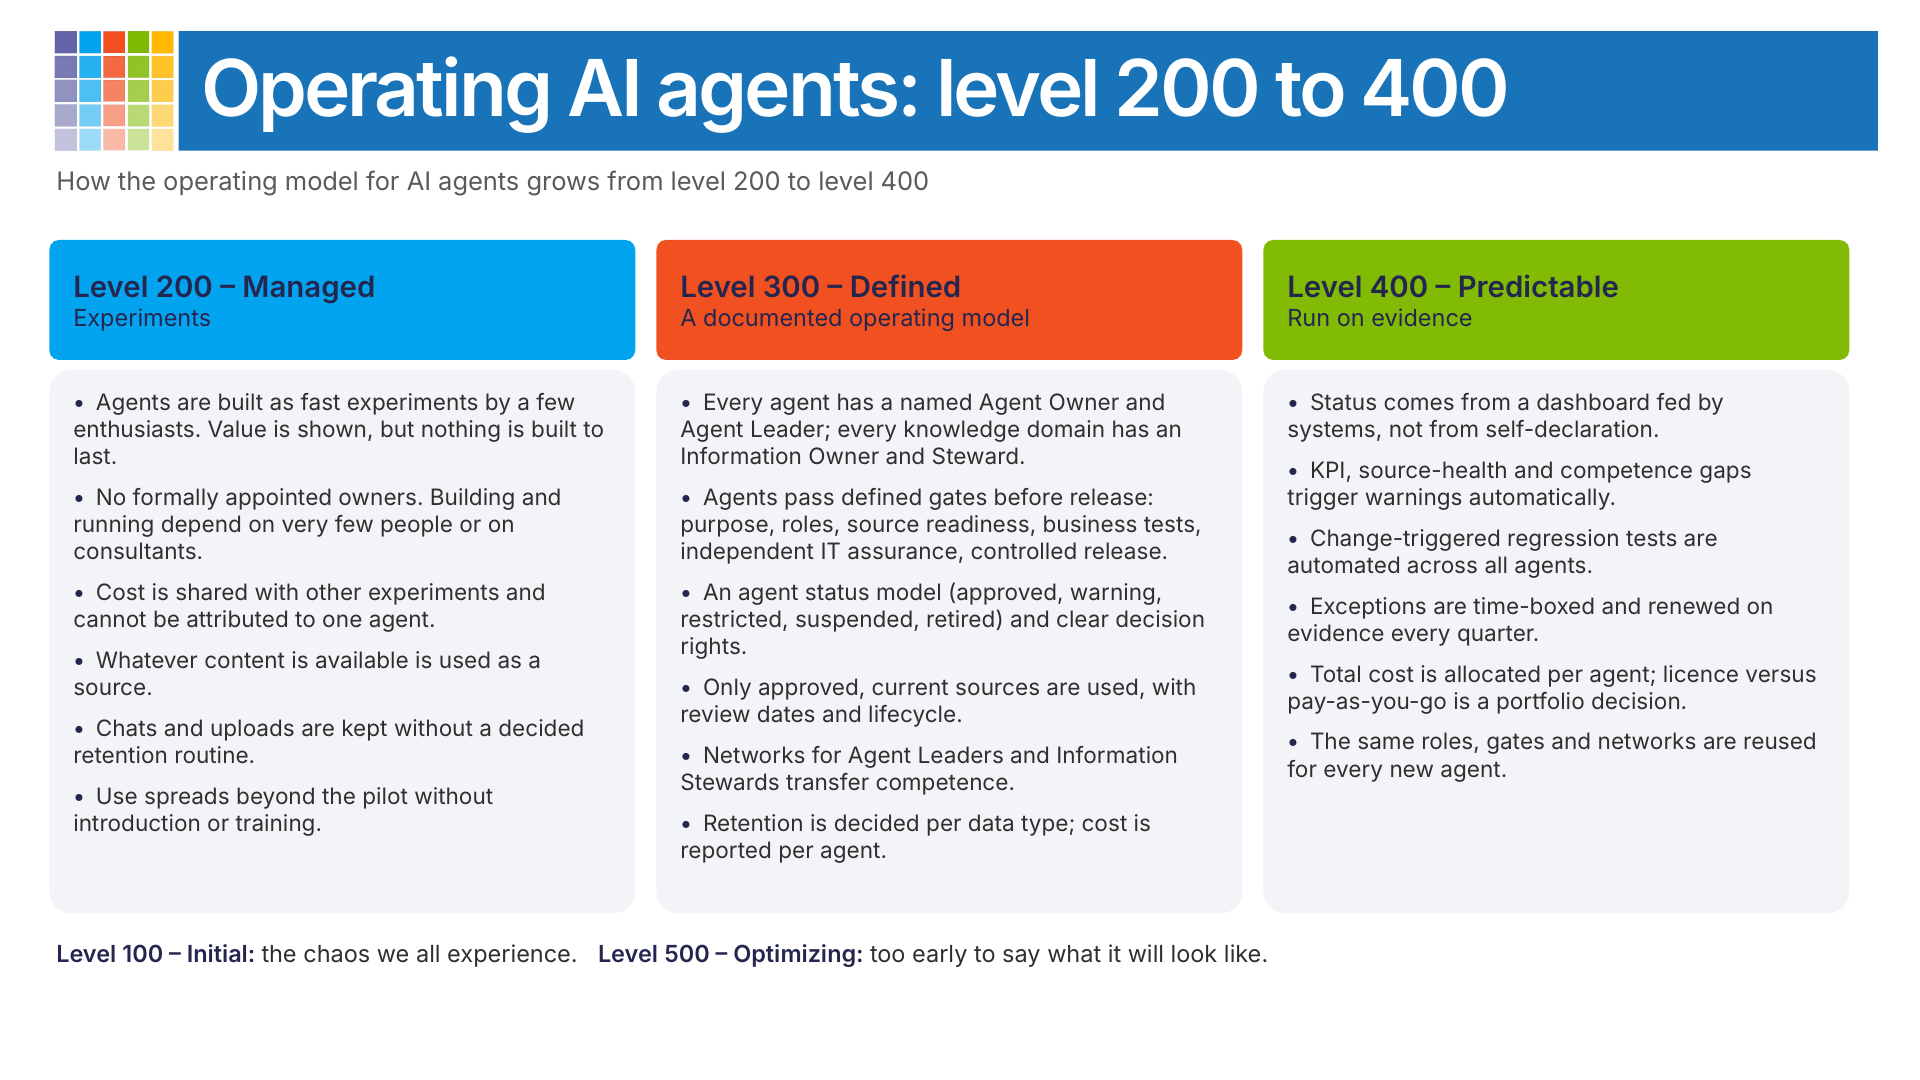
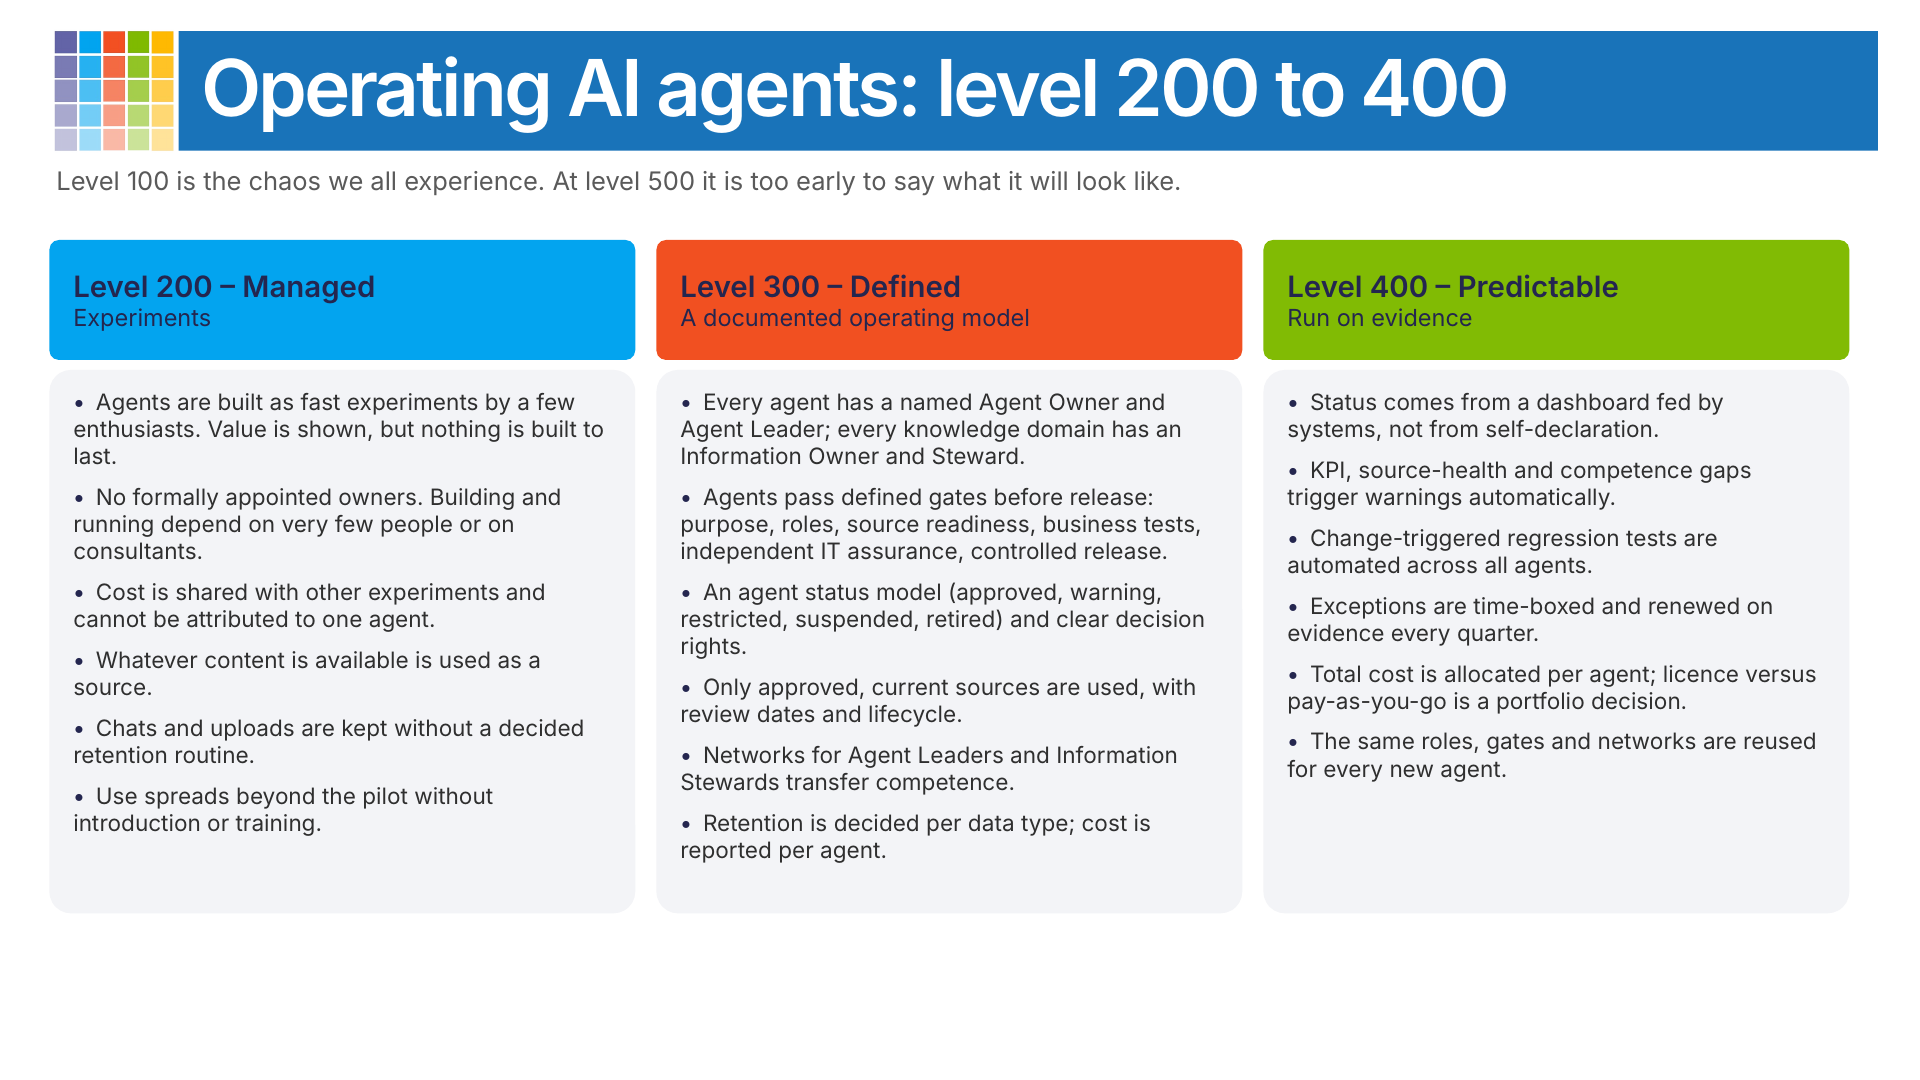
Move levels 100 and 500 into the slide text; keep AI policy to the law

diff --git a/docs/practical-scenarios/maturity-model-microsoft365-ps-ai-operations.md b/docs/practical-scenarios/maturity-model-microsoft365-ps-ai-operations.md
@@ -165,7 +165,7 @@ The AI policy says what is allowed and why. It points to the platform strategy f
 | Approved platforms | Primary, secondary and local platforms as set in the platform strategy. New tools are proposed to the AI Committee. |
 | Where information may go | Follows the information matrix below. Credentials and secrets never go into any AI tool. |
 | Uses that are not allowed | Decisions about individuals without human review. Advice to customers without qualified review. Content that misleads or impersonates. Practices prohibited by the EU AI Act. |
-| Label AI-generated content | The [EU AI Act, Article 50](https://artificialintelligenceact.eu/article/50/), requires that people are told when they interact with an AI system, that AI-generated content is marked as such, and that deepfakes and AI-generated text published to inform the public are disclosed. The policy says how the organisation labels AI-generated content. |
+| Label AI-generated content | The [EU AI Act, Article 50](https://artificialintelligenceact.eu/article/50/), requires that people are told when they interact with an AI system, that AI-generated content is marked as such, and that deepfakes and AI-generated text published to inform the public are disclosed. The policy follows these requirements. |
 | Human responsibility | The person who uses the output owns it: check the sources and correct errors before it is used or shared. |
 | AI literacy | Training is required before access, and refreshed when platforms or rules change. |
 | Building agents | Only in approved environments, with a named Agent Owner, through the admission gates, and recorded in the agent register. |
